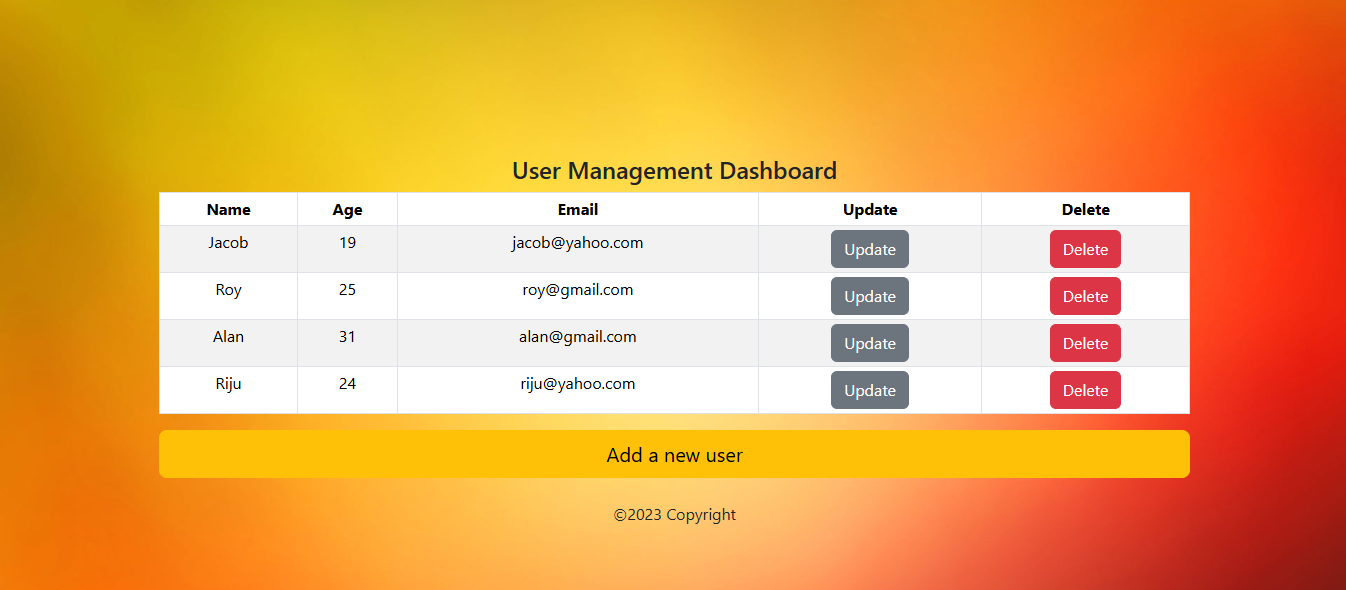
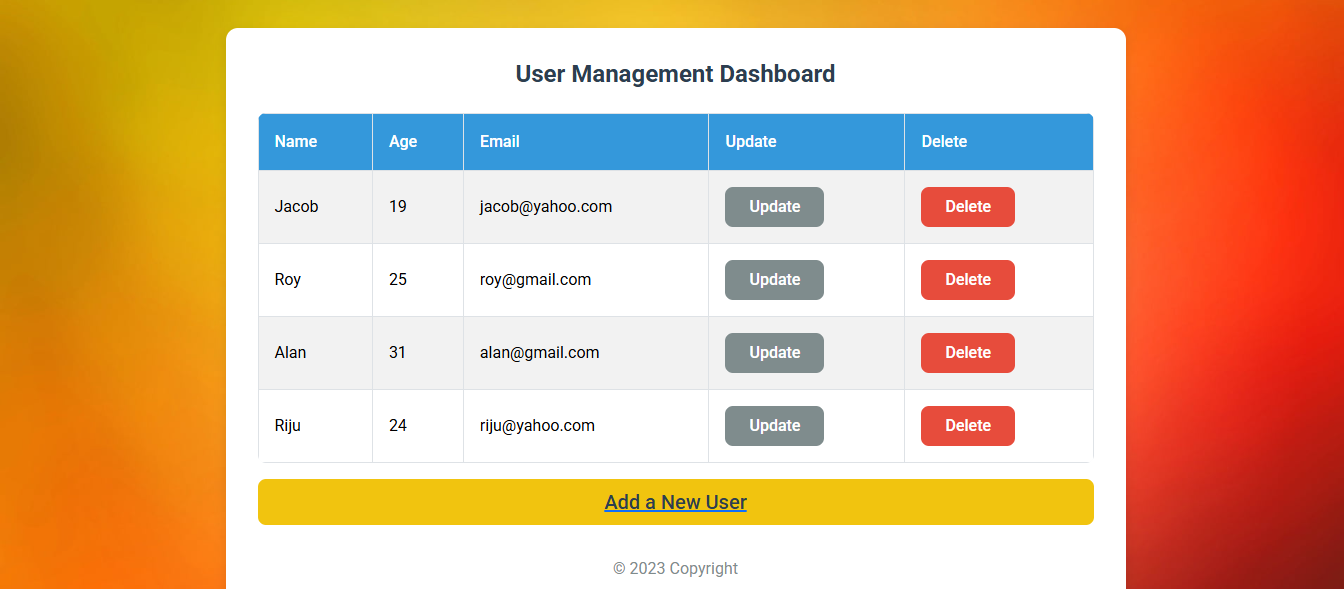
Added modern styles to page and buttons, updated README with new screenshot

diff --git a/src/components/Home.js b/src/components/Home.js
@@ -1,80 +1,73 @@
-import React from 'react'
-import { Button, Table } from 'react-bootstrap'
-import 'bootstrap/dist/css/bootstrap.min.css'; 
+import React from 'react';
+import { Button, Table } from 'react-bootstrap';
+import 'bootstrap/dist/css/bootstrap.min.css';
 import Employees from './Employees';
-import { Link, useNavigate } from 'react-router-dom'; 
+import { Link, useNavigate } from 'react-router-dom';
 
-function Home() { 
+function Home() {
+  let history = useNavigate();
 
-	let history = useNavigate() 
+  function setID(id, name, age, email) {
+    localStorage.setItem('id', id);
+    localStorage.setItem('Name', name);
+    localStorage.setItem('Age', age);
+    localStorage.setItem('Email', email);
+  }
 
-	function setID(id, name, age, email) { 
-		localStorage.setItem('id', id); 
-		localStorage.setItem('Name', name); 
-		localStorage.setItem('Age', age); 
-		localStorage.setItem('Email', email); 
-	} 
+  function deleted(id) {
+    var index = Employees.map(function (e) {
+      return e.id;
+    }).indexOf(id);
+    Employees.splice(index, 1);
+    history('/');
+  }
 
-	// function for deleting the entry 
-	function deleted(id) { 
+  return (
+    <div className="container">
+      <h4>User Management Dashboard</h4>
+      <Table striped bordered hover size="sm">
+        <thead>
+          <tr>
+            <th>Name</th>
+            <th>Age</th>
+            <th>Email</th>
+            <th>Update</th>
+            <th>Delete</th>
+          </tr>
+        </thead>
+        <tbody>
+          {Employees.map((item) => (
+            <tr key={item.id}>
+              <td>{item.Name}</td>
+              <td>{item.Age}</td>
+              <td>{item.Email}</td>
+              <td>
+                <Link to={`/edit`}>
+                  <Button
+                    onClick={(e) => setID(item.id, item.Name, item.Age, item.Email)}
+                    variant="secondary"
+                  >
+                    Update
+                  </Button>
+                </Link>
+              </td>
+              <td>
+                <Button onClick={() => deleted(item.id)} variant="danger">
+                  Delete
+                </Button>
+              </td>
+            </tr>
+          ))}
+        </tbody>
+      </Table>
+      <Link className="d-grid gap-2" to="/add">
+        <Button variant="warning" size="lg">
+          Add a New User
+        </Button>
+      </Link>
+      <div className="footer">© 2023 Copyright</div>
+    </div>
+  );
+}
 
-		var index = Employees.map(function (e) {
-			return e.id; }).indexOf(id); 
-
-		// deleting the entry with index 
-		Employees.splice(index, 1)
-
-		// refreshing the page
-		history('/') 
-	} 
-
-	return ( 
-		<div style={{ margin: '10rem' }}> 
-		<h4>User Management Dashboard</h4>
-			<Table striped bordered hover size="sm"> 
-				<thead> 
-					<tr> 
-						<th>Name</th> 
-						<th>Age</th>
-						<th>Email</th> 
-						<th>Update</th>
-						<th>Delete</th>
-					</tr> 
-				</thead> 
-				<tbody> 
-
-					{/* looping through every element and we display each item in a table */} 
-					{Employees.map((item) => {
-						return ( 
-							<tr> 
-								<td>{item.Name}</td> 
-								<td>{item.Age}</td> 
-								<td>{item.Email}</td>
-
-								{/* getting id, name, age and store in jsx with onclick event */} 
-								<td><Link to={`/edit`}> 
-									<Button onClick={(e) => setID(item.id, item.Name, item.Age, item.Email)} 
-									variant="secondary"> Update</Button>
-									</Link> 
-								</td> 
-
-								{/* deleted function to delete the entries by passing the id as parameter */} 
-								<td><Button onClick={e => deleted(item.id)} 
-									variant="danger">Delete</Button></td> 
-							</tr> 
-						) 
-					})} 
-				</tbody> 
-			</Table> 
-
-			{/* create button to enter new user details */} 
-			<Link className="d-grid gap-2 links" to='/add'>
-				<Button variant="warning" size="lg">Add a new user</Button>
-			</Link>
-			<br></br>
-			&#169;2023 Copyright
-		</div> 
-	) 
-} 
-
-export default Home 
+export default Home;

diff --git a/src/App.css b/src/App.css
@@ -1,45 +1,157 @@
+@import url('https://fonts.googleapis.com/css2?family=Roboto:wght@400;500;700&display=swap');
+
+body {
+  font-family: 'Roboto', sans-serif;
+  background-color: #f4f7fa;
+  margin: 0;
+  padding: 0;
+}
+
 .App {
-  text-align: center;
-  display: block;
-  min-height: 100vh;
-}
-
-.App-logo {
-  height: 40vmin;
-  pointer-events: none;
-}
-
-@media (prefers-reduced-motion: no-preference) {
-  .App-logo {
-    animation: App-logo-spin infinite 20s linear;
-  }
-}
-
-.links {
-  text-decoration: none;
-}
-
-.App-header {
-  background-color: #282c34;
-  min-height: 100vh;
   display: flex;
   flex-direction: column;
   align-items: center;
-  justify-content: center;
-  font-size: calc(10px + 2vmin);
-  color: white;
+  min-height: 100vh;
+  padding: 2rem;
 }
 
-.App-link {
-  color: #61dafb;
+.container {
+  background: #ffffff;
+  border-radius: 12px;
+  box-shadow: 0 4px 12px rgba(0, 0, 0, 0.1);
+  padding: 2rem;
+  max-width: 900px;
+  width: 100%;
 }
-  
 
-@keyframes App-logo-spin {
-  from {
-    transform: rotate(0deg);
+h4 {
+  color: #2c3e50;
+  font-weight: 700;
+  margin-bottom: 1.5rem;
+  text-align: center;
+}
+
+/* Table Styles */
+.table {
+  background: #ffffff;
+  border-radius: 8px;
+  overflow: hidden;
+}
+
+.table th {
+  background: #3498db;
+  color: #ffffff;
+  font-weight: 500;
+  padding: 1rem;
+}
+
+.table td {
+  padding: 1rem;
+  vertical-align: middle;
+}
+
+.table tr:nth-child(even) {
+  background: #f8f9fa;
+}
+
+.table tr:hover {
+  background: #e9ecef;
+}
+
+/* Button Styles */
+.btn {
+  border-radius: 8px;
+  padding: 0.5rem 1.5rem;
+  font-weight: 500;
+  transition: all 0.3s ease;
+}
+
+.btn-primary {
+  background: #3498db;
+  border: none;
+}
+
+.btn-primary:hover {
+  background: #2980b9;
+  transform: scale(1.05);
+}
+
+.btn-warning {
+  background: #f1c40f;
+  border: none;
+  color: #2c3e50;
+}
+
+.btn-warning:hover {
+  background: #d4ac0d;
+  transform: scale(1.05);
+}
+
+.btn-danger {
+  background: #e74c3c;
+  border: none;
+}
+
+.btn-danger:hover {
+  background: #c0392b;
+  transform: scale(1.05);
+}
+
+.btn-secondary {
+  background: #7f8c8d;
+  border: none;
+}
+
+.btn-secondary:hover {
+  background: #6c757d;
+  transform: scale(1.05);
+}
+
+/* Form Styles (for Add.js/Edit.js) */
+.form-group {
+  margin-bottom: 1rem;
+}
+
+.form-group label {
+  display: block;
+  color: #2c3e50;
+  font-weight: 500;
+  margin-bottom: 0.5rem;
+}
+
+.form-group input {
+  width: 100%;
+  padding: 0.75rem;
+  border: 1px solid #dfe6e9;
+  border-radius: 8px;
+  font-size: 1rem;
+  transition: border-color 0.3s ease;
+}
+
+.form-group input:focus {
+  outline: none;
+  border-color: #3498db;
+  box-shadow: 0 0 5px rgba(52, 152, 219, 0.3);
+}
+
+/* Footer */
+.footer {
+  margin-top: 2rem;
+  color: #7f8c8d;
+  text-align: center;
+}
+
+/* Responsive Design */
+@media (max-width: 768px) {
+  .container {
+    padding: 1rem;
   }
-  to {
-    transform: rotate(360deg);
+
+  .table th, .table td {
+    padding: 0.5rem;
+  }
+
+  .btn {
+    padding: 0.4rem 1rem;
   }
 }

diff --git a/src/components/Add.js b/src/components/Add.js
@@ -11,16 +11,16 @@ function Add() {
 
   const handleSubmit = (e) => {
     e.preventDefault();
-    const id = Employees.length + 1; // Simple ID generation
+    const id = Employees.length + 1;
     Employees.push({ id, Name: name, Age: age, Email: email });
-    navigate('/'); // Redirect to home
+    navigate('/');
   };
 
   return (
-    <div style={{ margin: '10rem' }}>
+    <div className="container">
       <h4>Add New User</h4>
       <form onSubmit={handleSubmit}>
-        <div>
+        <div className="form-group">
           <label>Name</label>
           <input
             type="text"
@@ -29,7 +29,7 @@ function Add() {
             required
           />
         </div>
-        <div>
+        <div className="form-group">
           <label>Age</label>
           <input
             type="number"
@@ -38,7 +38,7 @@ function Add() {
             required
           />
         </div>
-        <div>
+        <div className="form-group">
           <label>Email</label>
           <input
             type="email"
